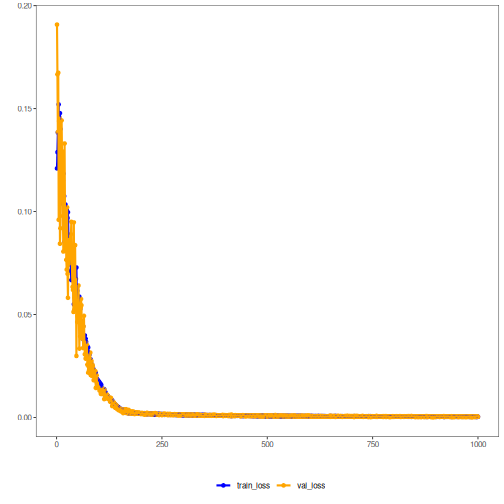
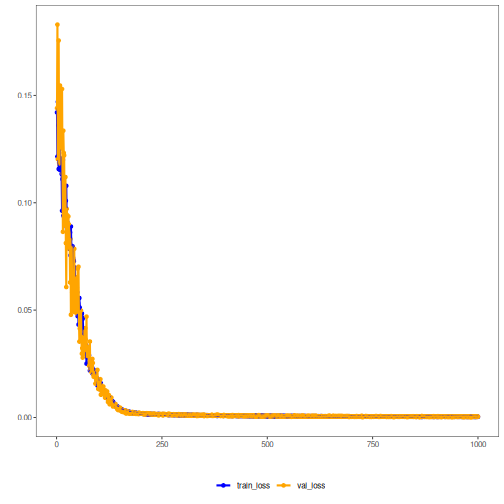
update

diff --git a/autoencoder/autoenc_ed.md b/autoencoder/autoenc_ed.md
@@ -117,12 +117,12 @@ print(head(result))
 
 ```
 ##           [,1]      [,2]      [,3]      [,4]      [,5]
-## [1,] 0.7262440 0.8341659 0.9143010 0.9686462 0.9958353
-## [2,] 0.8300975 0.9166925 0.9726493 0.9969217 0.9946427
-## [3,] 0.9132969 0.9715657 0.9997759 0.9967473 0.9658116
-## [4,] 0.9710404 0.9981323 0.9962952 0.9636471 0.9035848
-## [5,] 1.0005963 0.9954647 0.9624329 0.8996010 0.8114467
-## [6,] 0.9991150 0.9613918 0.8991151 0.8122910 0.7021149
+## [1,] 0.7242541 0.8309548 0.9139441 0.9683644 0.9969873
+## [2,] 0.8285933 0.9145415 0.9723976 0.9961050 0.9960390
+## [3,] 0.9129650 0.9711251 1.0000758 0.9943587 0.9665631
+## [4,] 0.9746029 0.9991009 0.9964706 0.9611555 0.9058885
+## [5,] 1.0026885 0.9965248 0.9612262 0.8993708 0.8116451
+## [6,] 0.9958107 0.9596959 0.8966188 0.8146730 0.7049195
 ```
 
 
@@ -141,11 +141,11 @@ print(paste(col, 'R2 test:', r2_col, 'MAPE:', mape_col))
 ```
 
 ```
-## [1] "t4 R2 test: 0.999794099676822 MAPE: 0.0014356527275557"
-## [1] "t3 R2 test: 0.999730105441734 MAPE: 0.00334671000529564"
-## [1] "t2 R2 test: 0.999956122835593 MAPE: 0.00178456080169424"
-## [1] "t1 R2 test: 0.999979644028763 MAPE: 0.00133366418420425"
-## [1] "t0 R2 test: 0.999905240229175 MAPE: 0.00367077271524089"
+## [1] "t4 R2 test: 0.998895141167135 MAPE: 0.00324417364893295"
+## [1] "t3 R2 test: 0.999733850489631 MAPE: 0.00271079303963664"
+## [1] "t2 R2 test: 0.999846686880988 MAPE: 0.00278926688827067"
+## [1] "t1 R2 test: 0.999977819808177 MAPE: 0.00207383883839989"
+## [1] "t0 R2 test: 0.999921479813648 MAPE: 0.00326458820000273"
 ```
 
 ```r
@@ -153,5 +153,5 @@ print(paste('Means R2 test:', mean(r2), 'MAPE:', mean(mape)))
 ```
 
 ```
-## [1] "Means R2 test: 0.999873042442417 MAPE: 0.00231427208679814"
+## [1] "Means R2 test: 0.999674995631916 MAPE: 0.00281653212304858"
 ```

diff --git a/autoencoder/autoenc_conv_ed.md b/autoencoder/autoenc_conv_ed.md
@@ -115,12 +115,12 @@ print(head(result))
 
 ```
 ##           [,1]      [,2]      [,3]      [,4]      [,5]
-## [1,] 0.7444678 0.8501830 0.9172504 0.9487120 0.9545165
-## [2,] 0.8485267 0.9114507 0.9447488 0.9610678 0.9529473
-## [3,] 0.9099773 0.9400712 0.9540594 0.9604950 0.9391585
-## [4,] 0.9424931 0.9518344 0.9525311 0.9482324 0.9071049
-## [5,] 0.9564850 0.9503977 0.9365789 0.9118246 0.8403118
-## [6,] 0.9591969 0.9378541 0.8966976 0.8306858 0.7237662
+## [1,] 0.7516500 0.8569596 0.9206823 0.9518238 0.9545856
+## [2,] 0.8496914 0.9162153 0.9482633 0.9644588 0.9567519
+## [3,] 0.9110528 0.9420014 0.9552362 0.9622589 0.9428958
+## [4,] 0.9435484 0.9526478 0.9518557 0.9481485 0.9100075
+## [5,] 0.9588798 0.9525294 0.9352527 0.9101195 0.8406069
+## [6,] 0.9620219 0.9389013 0.8947033 0.8248767 0.7199421
 ```
 
 
@@ -139,11 +139,11 @@ print(paste(col, 'R2 test:', r2_col, 'MAPE:', mape_col))
 ```
 
 ```
-## [1] "t4 R2 test: 0.976192154654293 MAPE: 0.021610035142976"
-## [1] "t3 R2 test: 0.97291646368929 MAPE: 0.0231677319708519"
-## [1] "t2 R2 test: 0.991380860488967 MAPE: 0.0178300298979004"
-## [1] "t1 R2 test: 0.995245072417139 MAPE: 0.0185305046270765"
-## [1] "t0 R2 test: 0.992797630836744 MAPE: 0.0292250437640638"
+## [1] "t4 R2 test: 0.978337075448678 MAPE: 0.0225213392592316"
+## [1] "t3 R2 test: 0.967473881903639 MAPE: 0.0250380334770173"
+## [1] "t2 R2 test: 0.989854895471144 MAPE: 0.0204211713612285"
+## [1] "t1 R2 test: 0.996464142596375 MAPE: 0.0148859503547315"
+## [1] "t0 R2 test: 0.993701225133644 MAPE: 0.0266952987586013"
 ```
 
 ```r
@@ -151,6 +151,6 @@ print(paste('Means R2 test:', mean(r2), 'MAPE:', mean(mape)))
 ```
 
 ```
-## [1] "Means R2 test: 0.985706436417287 MAPE: 0.0220726690805737"
+## [1] "Means R2 test: 0.985166244110696 MAPE: 0.021912358642162"
 ```
 

diff --git a/autoencoder/autoenc_adv_ed.md b/autoencoder/autoenc_adv_ed.md
@@ -115,12 +115,12 @@ print(head(result))
 
 ```
 ##           [,1]      [,2]      [,3]      [,4]      [,5]
-## [1,] 0.8543890 0.9086797 0.9285751 0.9285797 0.8912537
-## [2,] 0.8821034 0.9323974 0.9491633 0.9498193 0.9160514
-## [3,] 0.8935879 0.9415498 0.9568321 0.9576553 0.9259356
-## [4,] 0.8912893 0.9397721 0.9553059 0.9560988 0.9239658
-## [5,] 0.8741766 0.9259035 0.9434572 0.9439535 0.9090447
-## [6,] 0.8396616 0.8952890 0.9162364 0.9157068 0.8775771
+## [1,] 0.8557914 0.9091218 0.9283705 0.9278859 0.8887482
+## [2,] 0.8826858 0.9322679 0.9487278 0.9488249 0.9132053
+## [3,] 0.8938032 0.9412395 0.9565192 0.9565668 0.9231421
+## [4,] 0.8917221 0.9396129 0.9550601 0.9551187 0.9212752
+## [5,] 0.8754777 0.9263140 0.9433593 0.9433603 0.9066747
+## [6,] 0.8417521 0.8962758 0.9163706 0.9154167 0.8754575
 ```
 
 
@@ -139,11 +139,11 @@ print(paste(col, 'R2 test:', r2_col, 'MAPE:', mape_col))
 ```
 
 ```
-## [1] "t4 R2 test: 0.32835189757715 MAPE: 0.172480609722107"
-## [1] "t3 R2 test: 0.887514876965251 MAPE: 0.0959032541963745"
-## [1] "t2 R2 test: 0.960455357195334 MAPE: 0.0427719919193686"
-## [1] "t1 R2 test: 0.909430821418064 MAPE: 0.129377014119978"
-## [1] "t0 R2 test: 0.849965647587619 MAPE: 0.316280069654271"
+## [1] "t4 R2 test: 0.330555893344385 MAPE: 0.169683175259377"
+## [1] "t3 R2 test: 0.887662997335136 MAPE: 0.0937367308284173"
+## [1] "t2 R2 test: 0.958917809534162 MAPE: 0.0439978591715134"
+## [1] "t1 R2 test: 0.907909986785666 MAPE: 0.133577604315365"
+## [1] "t0 R2 test: 0.848068816296658 MAPE: 0.320477207475068"
 ```
 
 ```r
@@ -151,6 +151,6 @@ print(paste('Means R2 test:', mean(r2), 'MAPE:', mean(mape)))
 ```
 
 ```
-## [1] "Means R2 test: 0.787143720148684 MAPE: 0.15136258792242"
+## [1] "Means R2 test: 0.786623100659201 MAPE: 0.152294515409948"
 ```
 

diff --git a/autoencoder/autoenc_lstm_ed.md b/autoencoder/autoenc_lstm_ed.md
@@ -78,36 +78,17 @@ auto <- autoenc_lstm_ed(5, 3, num_epochs=1500)
 auto <- fit(auto, train)
 ```
 
-```
-## input.size(-1) must be equal to input_size. Expected 5, got 1
-```
-
 ### learning curves
 
 
 ```r
 fit_loss <- data.frame(x=1:length(auto$train_loss), train_loss=auto$train_loss,val_loss=auto$val_loss)
-```
 
-```
-## Error in data.frame(x = 1:length(auto$train_loss), train_loss = auto$train_loss, : arguments imply differing number of rows: 2, 0
-```
-
-```r
 grf <- plot_series(fit_loss, colors=c('Blue','Orange'))
-```
-
-```
-## Error in eval(expr, envir, enclos): object 'fit_loss' not found
-```
-
-```r
 plot(grf)
 ```
 
-```
-## Error in eval(expr, envir, enclos): object 'grf' not found
-```
+![plot of chunk unnamed-chunk-6](fig/autoenc_lstm_ed/unnamed-chunk-6-1.png)
 
 ### testing autoencoder
 presenting the original test set and display encoding
@@ -129,21 +110,35 @@ print(head(test))
 
 ```r
 result <- transform(auto, test)
+```
+
+```
+## Error in autoenc_lstm_encode_decode(obj$model, data): could not find function "autoenc_lstm_encode_decode"
+```
+
+```r
 print(head(result))
 ```
 
 ```
-## NULL
+## Error in eval(expr, envir, enclos): object 'result' not found
 ```
 
 
 ```r
 result <- as.data.frame(result)
+```
+
+```
+## Error in eval(expr, envir, enclos): object 'result' not found
+```
+
+```r
 names(result) <- names(test)
 ```
 
 ```
-## Error in names(result) <- names(test): 'names' attribute [5] must be the same length as the vector [0]
+## Error in eval(ei, envir): object 'result' not found
 ```
 
 ```r
@@ -159,7 +154,7 @@ print(paste(col, 'R2 test:', r2_col, 'MAPE:', mape_col))
 ```
 
 ```
-## Error in `[.data.frame`(result, col): undefined columns selected
+## Error in eval(expr, envir, enclos): object 'result' not found
 ```
 
 ```r

diff --git a/autoencoder/autoenc_lstm_e.md b/autoencoder/autoenc_lstm_e.md
@@ -79,7 +79,9 @@ auto <- fit(auto, train)
 ```
 
 ```
-## input.size(-1) must be equal to input_size. Expected 5, got 1
+## Called from: eval(expr, p)
+## debug at /home/gpca/daltoolbox/R/autoenc_lstm_e.R#29: if (!exists("autoenc_lstm_create")) reticulate::source_python(system.file("python", 
+##     "autoenc_lstm.py", package = "daltoolbox"))
 ```
 
 ### learning curves
@@ -87,27 +89,12 @@ auto <- fit(auto, train)
 
 ```r
 fit_loss <- data.frame(x=1:length(auto$train_loss), train_loss=auto$train_loss,val_loss=auto$val_loss)
-```
 
-```
-## Error in data.frame(x = 1:length(auto$train_loss), train_loss = auto$train_loss, : arguments imply differing number of rows: 2, 0
-```
-
-```r
 grf <- plot_series(fit_loss, colors=c('Blue','Orange'))
-```
-
-```
-## Error in eval(expr, envir, enclos): object 'fit_loss' not found
-```
-
-```r
 plot(grf)
 ```
 
-```
-## Error in eval(expr, envir, enclos): object 'grf' not found
-```
+![plot of chunk unnamed-chunk-6](fig/autoenc_lstm_e/unnamed-chunk-6-1.png)
 
 ### testing autoencoder
 presenting the original test set and display encoding
@@ -129,10 +116,17 @@ print(head(test))
 
 ```r
 result <- transform(auto, test)
+```
+
+```
+## Error in autoenc_lstm_encode(obj$model, data): could not find function "autoenc_lstm_encode"
+```
+
+```r
 print(head(result))
 ```
 
 ```
-## NULL
+## Error in eval(expr, envir, enclos): object 'result' not found
 ```
 

diff --git a/autoencoder/autoenc_conv_e.md b/autoencoder/autoenc_conv_e.md
@@ -114,12 +114,12 @@ print(head(result))
 ```
 
 ```
-##            [,1]       [,2]     [,3]
-## [1,] -1.2689584 -0.9906839 1.196142
-## [2,] -1.0656980 -1.1591564 1.359328
-## [3,] -0.8505481 -1.2738401 1.452862
-## [4,] -0.5923330 -1.3237946 1.415385
-## [5,] -0.3350778 -1.3066732 1.280794
-## [6,] -0.1171702 -1.2068158 1.049017
+##             [,1]       [,2]     [,3]
+## [1,] -1.24253583 -0.9974594 1.193781
+## [2,] -1.03756976 -1.1636010 1.356033
+## [3,] -0.82139724 -1.2764909 1.449335
+## [4,] -0.56118876 -1.3239660 1.407513
+## [5,] -0.30460441 -1.3051287 1.272200
+## [6,] -0.08708601 -1.2016139 1.038184
 ```
 

diff --git a/autoencoder/autoenc_adv_e.md b/autoencoder/autoenc_adv_e.md
@@ -114,12 +114,12 @@ print(head(result))
 ```
 
 ```
-##          [,1]      [,2]       [,3]
-## [1,] 2.070020 -2.656837  0.2150927
-## [2,] 4.101379 -3.282675 -0.0966545
-## [3,] 4.645580 -5.574384  1.3154974
-## [4,] 2.629550 -2.076868 -0.1328259
-## [5,] 1.876759 -2.894660 -0.5632656
-## [6,] 3.003963 -3.172578  0.5510365
+##          [,1]      [,2]        [,3]
+## [1,] 1.978292 -2.792642  0.29435003
+## [2,] 3.928558 -3.340800  0.01628727
+## [3,] 4.456463 -5.706557  1.36989415
+## [4,] 2.520288 -2.268228 -0.06118106
+## [5,] 1.796099 -2.917715 -0.49755335
+## [6,] 2.839463 -3.223150  0.59587556
 ```
 

diff --git a/autoencoder/autoenc_e.md b/autoencoder/autoenc_e.md
@@ -115,11 +115,11 @@ print(head(result))
 
 ```
 ##           [,1]       [,2]      [,3]
-## [1,] 1.0655600 -0.6696494 0.5316044
-## [2,] 1.0851717 -0.7967110 0.5240983
-## [3,] 1.0755657 -0.8947096 0.4998532
-## [4,] 1.0334806 -0.9621345 0.4550487
-## [5,] 0.9655476 -0.9941797 0.3946295
-## [6,] 0.8768373 -0.9880968 0.3233177
+## [1,] 1.0566700 -0.6770882 0.5423293
+## [2,] 1.0758330 -0.8039985 0.5356084
+## [3,] 1.0669302 -0.9029343 0.5111930
+## [4,] 1.0266711 -0.9710974 0.4661717
+## [5,] 0.9593639 -1.0026753 0.4054239
+## [6,] 0.8704121 -0.9946415 0.3341308
 ```
 
